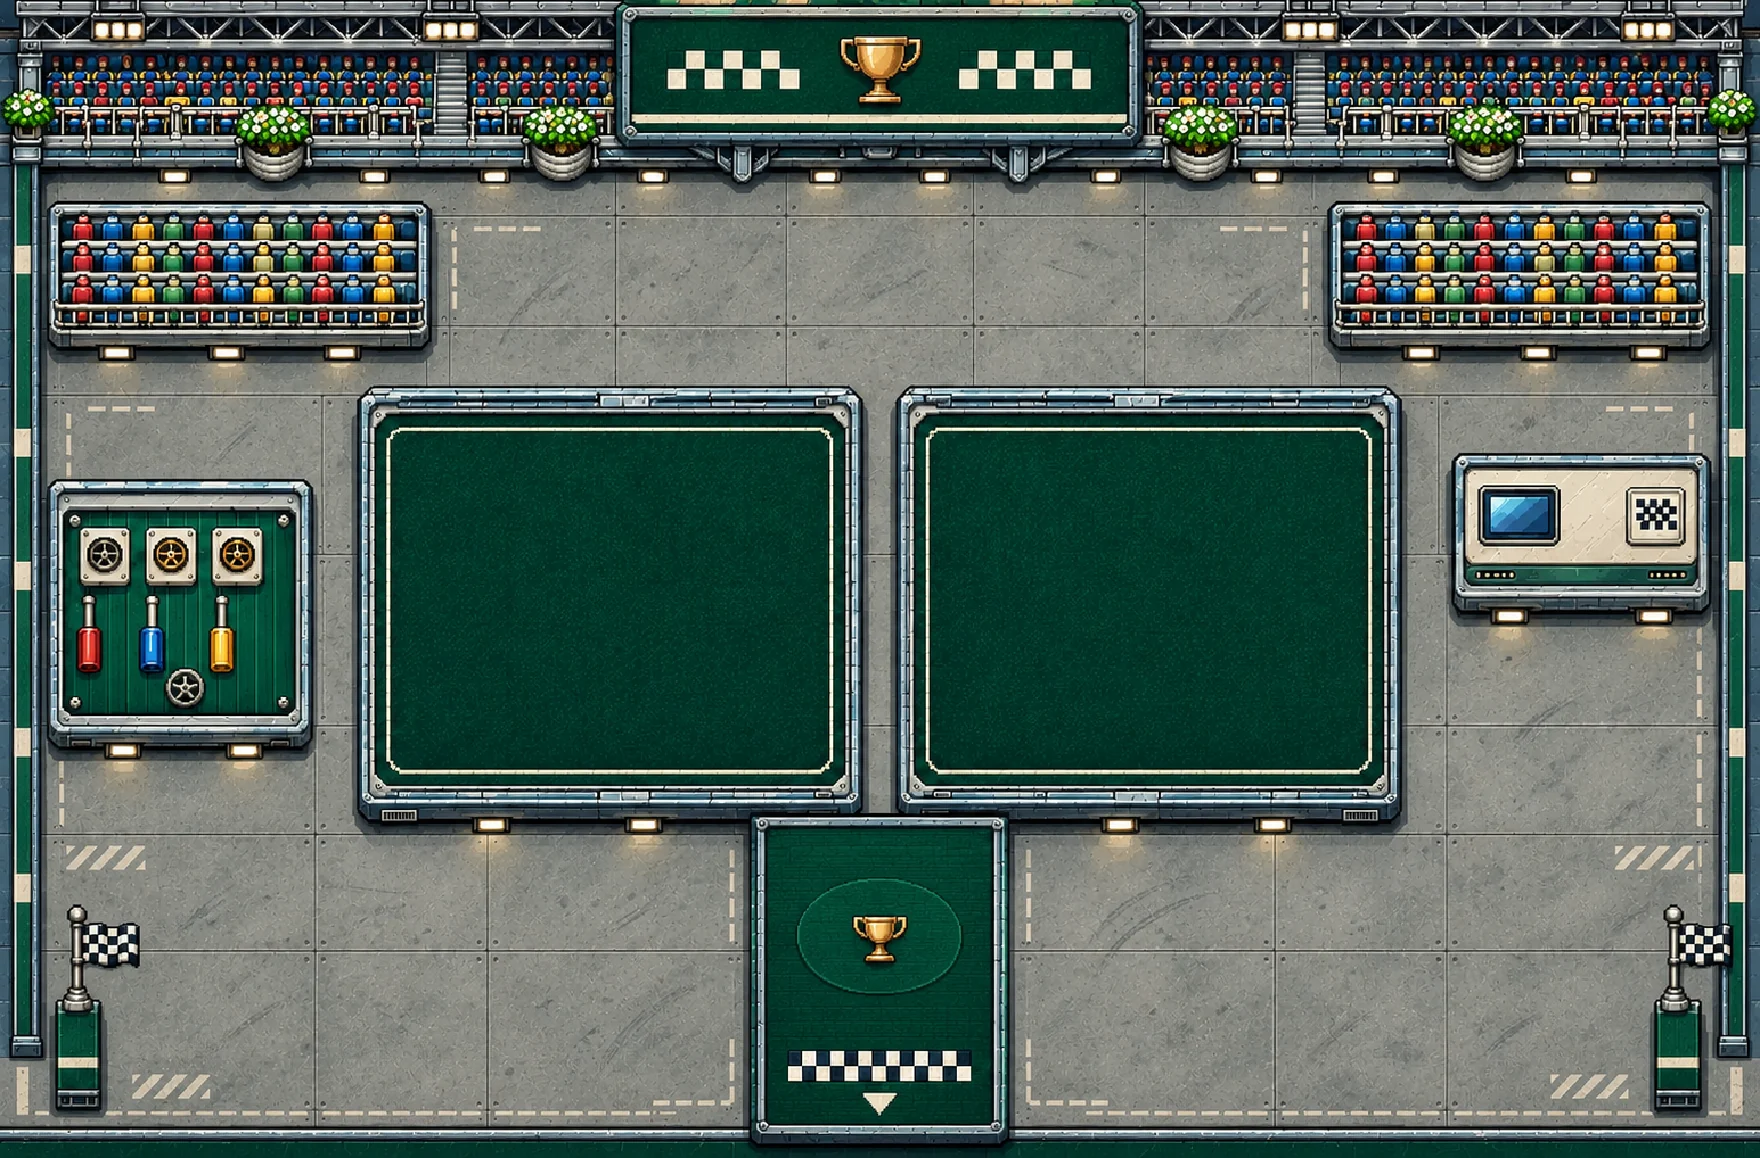
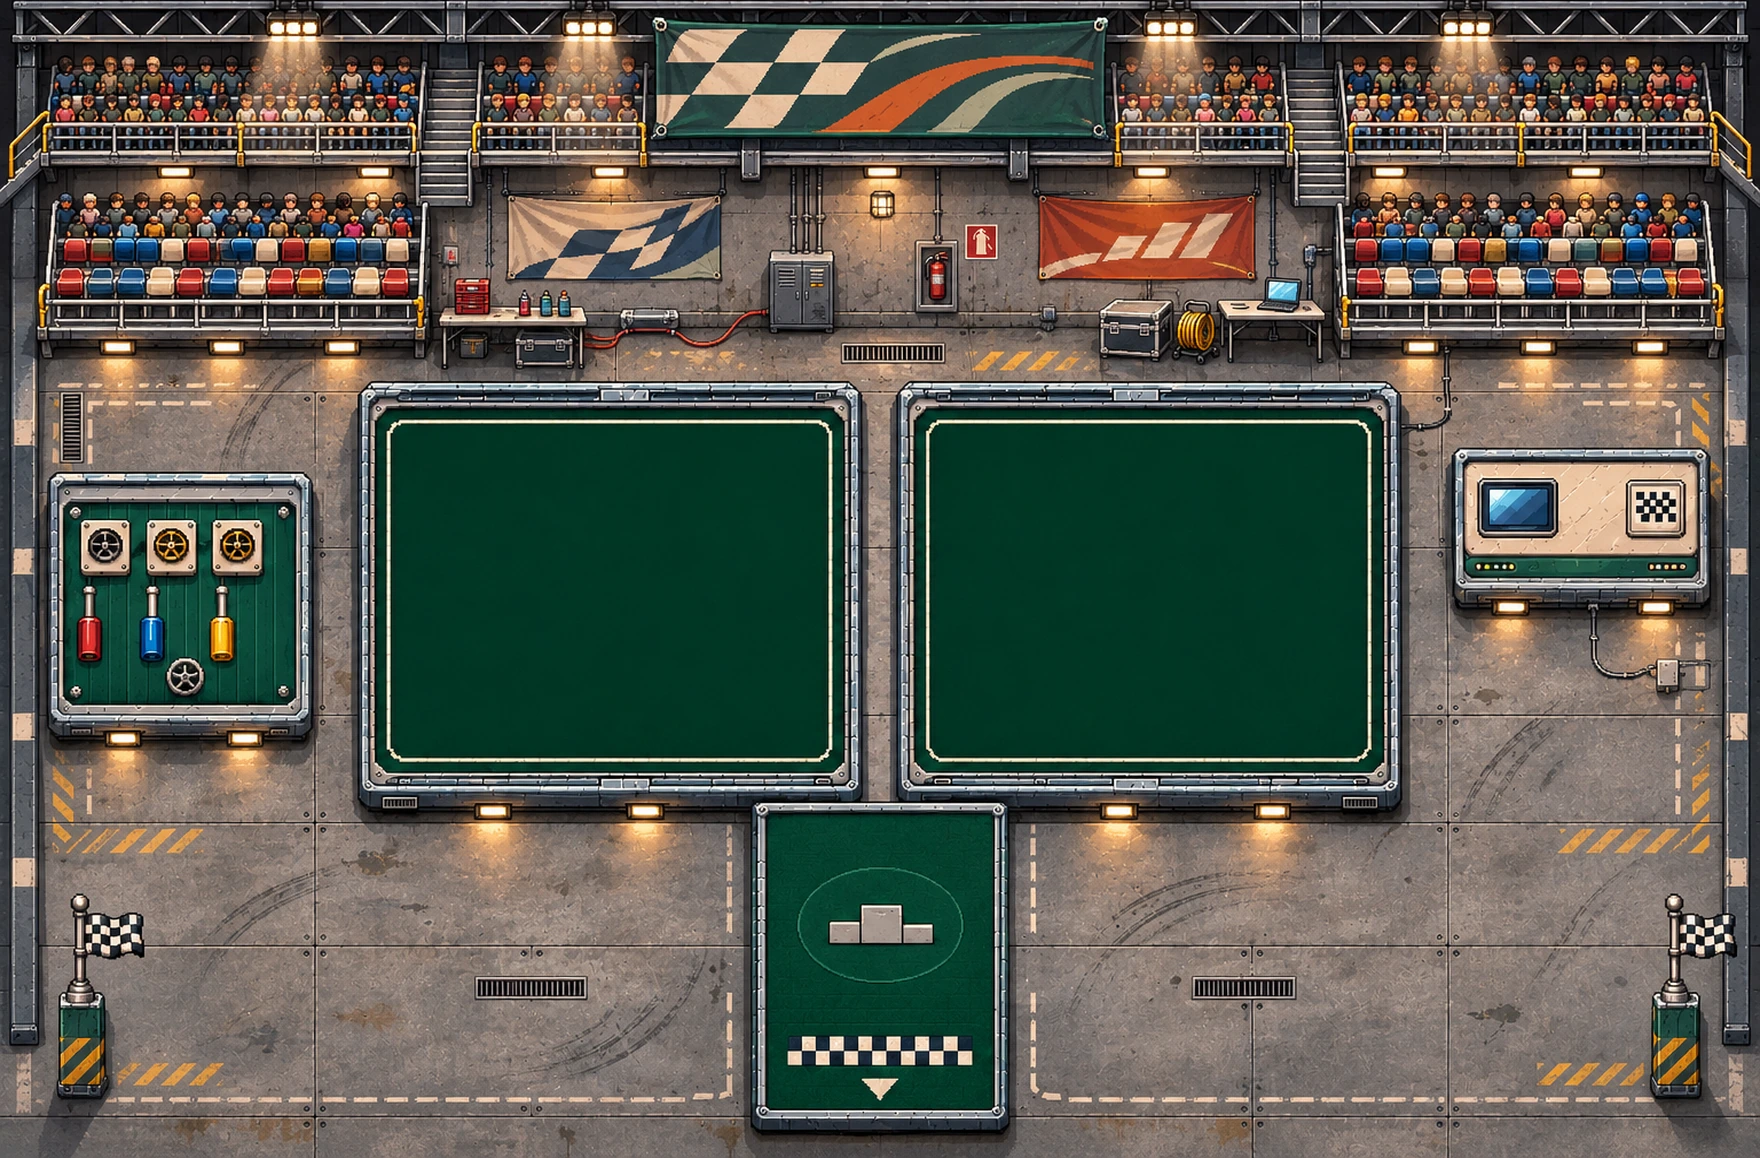
Rework interiors and town art direction

diff --git a/src/game/TownArt.ts b/src/game/TownArt.ts
@@ -19,11 +19,14 @@ function ground(c:CanvasRenderingContext2D){
   for(let x=shore+25;x<townSize.width;x+=37){const n=noise(x,y);r(x+n%11,y+4,14+n%9,1,'#8ec3be');r(x+7,y+6,8,1,'#2e677f');if(n%9===0){r(shore-13,y-3,2,10,'#486c53');r(shore-10,y-5,1,11,'#9aa372');}}
  }
  const road=(x:number,y:number,w:number,h:number)=>{
-  r(x+3,y+4,w,h,'#3d55574d');r(x,y,w,h,'#495860');r(x+7,y+7,w-14,h-14,'#667377');
+  r(x+4,y+5,w,h,'#34474a55');r(x,y,w,h,'#414f55');r(x+3,y+3,w-6,h-6,'#59666a');r(x+7,y+7,w-14,h-14,'#626f72');
   for(let yy=y+10;yy<y+h-7;yy+=11)for(let xx=x+10;xx<x+w-7;xx+=13){const n=noise(xx,yy);if(n%3===0)r(xx,yy,2,1,n%2?'#85918a':'#51646a');}
-  // Broken edge highlights and small aggregate clusters keep long asphalt strips organic.
-  for(let yy=y+18;yy<y+h-10;yy+=31)for(let xx=x+18;xx<x+w-10;xx+=37){const n=noise(xx,yy,91);if(n%4)continue;const px=xx+n%9,py=yy+(n>>>5)%8;r(px,py,3,1,'#a5aaa01f');r(px+2,py+2,2,1,'#344d5524');}
-  r(x,y,w,2,'#e0d3a5');r(x,y,2,h,'#c8c39c');r(x+w-4,y,4,h,'#8e9988');r(x,y+h-4,w,4,'#84928a');
+  // Irregular aggregate, tire polishing and repairs replace the flat asphalt fill.
+  for(let yy=y+8;yy<y+h-8;yy+=7)for(let xx=x+8;xx<x+w-8;xx+=9){const n=noise(xx,yy,91);if(n%4===0)continue;const px=xx+n%6,py=yy+(n>>>5)%5;r(px,py,1+n%3,1,n%3===0?'#abb0a336':n%2?'#34494e36':'#d4c9a21b');if(n%11===0)r(px+1,py+1,2,1,'#253b4230');}
+  for(let yy=y+20;yy<y+h-16;yy+=67)for(let xx=x+26;xx<x+w-24;xx+=83){const n=noise(xx,yy,193);if(n%5)continue;const px=xx+n%13,py=yy+(n>>>6)%14;r(px,py,9+n%14,1,'#283f4626');r(px+2,py+1,5+n%9,1,'#aab0a11b');}
+  // Raised curbs, chipped paint and paired gutter lines give every road a profile.
+  r(x,y,w,3,'#c8c2a0');r(x,y+3,w,1,'#e0d3a5');r(x,y+4,2,h-8,'#c8c39c');r(x+w-3,y+4,3,h-8,'#8e9988');r(x,y+h-4,w,1,'#a7a995');r(x,y+h-3,w,3,'#77877f');
+  for(let yy=y+12;yy<y+h-12;yy+=22){r(x+5,yy,2,8,'#30454b');r(x+6,yy+1,1,6,'#abb1a3');r(x+w-8,yy,2,8,'#30454b');r(x+w-7,yy+1,1,6,'#abb1a3');}
  };
  for(const x of townRoads.vertical){road(x-70,72,140,2250);for(let y=88;y<2320;y+=30){r(x-2,y,4,13,'#c9bd8d');r(x-1,y,1,11,'#e4d5a5');for(const xx of [x-70,x+63]){r(xx,y,7,1,'#6e8279');r(xx,y+1,7,1,'#d8cfaa');}}
   for(let y=185;y<2290;y+=210){r(x+53,y,9,17,'#3d535a');for(let i=0;i<4;i++)r(x+54,y+2+i*4,7,1,'#85958e');}
@@ -34,9 +37,10 @@ function ground(c:CanvasRenderingContext2D){
   const cx=v.x+v.w/2,cy=v.entrance==='south'?v.y+v.h+30:v.y-30,roadY=townRoads.horizontal.reduce((a,b)=>Math.abs(b-cy)<Math.abs(a-cy)?b:a);
   const pad=v.kind==='outdoor'?{x:v.x-8,y:v.y-8,w:v.w+16,h:v.h+28}:{x:v.x-24,y:v.y-65,w:v.w+48,h:v.h+118};
   r(pad.x+3,pad.y+4,pad.w,pad.h,'#506d4e55');r(pad.x,pad.y,pad.w,pad.h,'#b0af8c');
-  for(let yy=pad.y;yy<pad.y+pad.h;yy+=12)for(let xx=pad.x;xx<pad.x+pad.w;xx+=22){const n=noise(xx,yy);r(xx+1,yy+1,Math.min(20,pad.x+pad.w-xx-1),10,n%3?'#bdb99a':'#aaa98a');r(xx+1,yy+1,Math.min(20,pad.x+pad.w-xx-1),1,'#d3cdac');}
+  // Broad offset stone slabs, varied aggregate and worn corners feel like a real curb walk.
+  for(let yy=pad.y;yy<pad.y+pad.h;yy+=18){const row=Math.floor((yy-pad.y)/18);for(let xx=pad.x-(row%2)*15;xx<pad.x+pad.w;xx+=36){const n=noise(xx,yy,43),left=Math.max(pad.x+1,xx+1),width=Math.min(34,pad.x+pad.w-left-1);if(width<4)continue;const color=['#b7b29a','#acae98','#c1baa0','#a9ad9a'][n%4];r(left,yy+1,width,16,color);r(left,yy+1,width,1,'#dad3b4');r(left,yy+15,width,1,'#858f7f');r(left+1,yy+2,width-2,1,'#c9c3a9');if(n%3===0){r(left+4+n%11,yy+5+n%4,3+n%6,1,'#e1d8b327');r(left+14,yy+10,2,1,'#66796b38');}if(n%7===0){r(left+width-5,yy+7,2,1,'#697b6d70');r(left+width-4,yy+8,1,2,'#697b6d70');}}}
   const top=Math.min(cy,roadY),bottom=Math.max(cy,roadY);r(cx-30,top,60,bottom-top,'#788572');r(cx-28,top,56,bottom-top,'#aea98a');
-  for(let yy=top;yy<bottom;yy+=14){for(let col=0;col<2;col++){const xx=cx-27+col*27,n=noise(xx,yy);r(xx+1,yy+1,25,12,n%3?'#beb89a':'#b4ae90');r(xx+1,yy+1,25,1,'#dbd0ac');r(xx+1,yy+12,25,1,'#929a80');if(n%4===0)r(xx+5,yy+4,4,1,'#d6c9a527');}r(cx-29,yy+3,1,4,'#7d9663');r(cx+28,yy+8,1,3,'#6f8a5b');}
+  for(let yy=top;yy<bottom;yy+=18){for(let col=0;col<2;col++){const xx=cx-27+col*27,n=noise(xx,yy,61),tone=['#bbb69d','#b0ae96','#c5bda2'][n%3];r(xx+1,yy+1,25,16,tone);r(xx+1,yy+1,25,1,'#ded3b0');r(xx+1,yy+15,25,1,'#89917e');if(n%3===0){r(xx+5+n%8,yy+5,5,1,'#e0d5b538');r(xx+17,yy+10,3,1,'#717d6f3d');}if(n%9===0){r(xx+20,yy+8,2,1,'#657964');r(xx+22,yy+7,1,2,'#657964');}}r(cx-29,yy+4,1,4,'#7d9663');r(cx+28,yy+9,1,3,'#6f8a5b');}
  }
  // House fronts have their own stone thresholds and planted yards.
  for(const b of townBlocks){
@@ -53,14 +57,14 @@ function ground(c:CanvasRenderingContext2D){
  }
 }
 function house(scene:Phaser.Scene,block:typeof townBlocks[number],index:number){
- const {x,y,w,h}=block,key=`town-house-16-${index}-${w}-${h}`;
+ const {x,y,w,h}=block,key=`town-house-17-${index}-${w}-${h}`;
  if(!scene.textures.exists(key)){const t=scene.textures.createCanvas(key,(w+40)*2,(h+64)*2)!;t.context.scale(2,2);const p=new SceneryPen(t.context),xx=15,yy=40;
   p.shadow(xx,yy,w,h);p.rect(xx,yy,w,h,'#37474b');p.gradient(xx+3,yy+2,w-6,h-5,['#c7b999','#a9bab0','#bfada4'][index%3],['#9e9d87','#839e96','#a29791'][index%3]);p.material(xx+3,yy+4,w-6,h-10,'stone',index);
   for(let row=0;row<3;row++)for(let col=xx+10;col<xx+w-25;col+=32){const wy=yy+12+row*28;if(wy+22>yy+h-8)continue;p.rect(col-2,wy-2,27,25,'#6d7d77');p.rect(col,wy,23,21,'#334b58');p.gradient(col+2,wy+2,19,15,'#b4d1c5','#628b96');p.poly([[col+3,wy+2],[col+10,wy+2],[col+5,wy+16],[col+3,wy+16]],'#e7ecd066');p.rect(col+10,wy+2,1,17,'#d9d4b6');p.rect(col+2,wy+10,19,1,'#899f97');p.rect(col-2,wy+21,27,3,'#d1c8a5');p.rect(col-1,wy+24,27,2,'#6d7f76');}
-  p.poly([[xx-5,yy-25],[xx+w/2,yy-35],[xx+w+5,yy-25],[xx+w+5,yy+2],[xx-5,yy+2]],'#35464c');p.poly([[xx-3,yy-25],[xx+w/2,yy-32],[xx+w+3,yy-25],[xx+w+3,yy-2],[xx-3,yy-2]],['#667c7b','#6f8475','#927e70'][index%3]);
+  p.poly([[xx-5,yy-25],[xx+w/2,yy-35],[xx+w+5,yy-25],[xx+w+5,yy+2],[xx-5,yy+2]],'#35464c');p.poly([[xx-3,yy-25],[xx+w/2,yy-32],[xx+w+3,yy-25],[xx+w+3,yy-2],[xx-3,yy-2]],['#667c7b','#6f8475','#927e70'][index%3]);p.material(xx-2,yy-24,w+4,24,'wood',index+71);
   for(let ty=yy-25,row=0;ty<yy-3;ty+=5,row++)for(let tx=xx-1-row%2*6;tx<xx+w;tx+=12){p.rect(tx,ty,10,1,'#adbaa4');p.rect(tx+1,ty+1,8,2,'#82968a');p.rect(tx+9,ty+1,1,3,'#435c60');p.rect(tx,ty+4,10,1,'#42585a');}
   p.rect(xx+w/2-2,yy-33,4,3,'#b9bda5');p.rect(xx-6,yy+1,w+12,3,'#43565a');p.rect(xx-5,yy+1,w+10,1,'#d2c7a1');p.rect(xx+w-5,yy+3,2,h-6,'#617e7c');p.rect(xx+w-4,yy+4,1,h-9,'#b4baa4');
-  p.rect(xx+w/2-10,yy+h-25,20,25,'#465958');p.gradient(xx+w/2-7,yy+h-23,14,20,'#8eaaa0','#5b7d82');p.rect(xx+w/2+4,yy+h-13,2,2,'#ddc69c');p.rect(xx+w/2-12,yy+h-2,24,3,'#c5bda0');p.plant(xx+10,yy+h-2,.6);
+  p.rect(xx+w/2-10,yy+h-25,20,25,'#465958');p.gradient(xx+w/2-7,yy+h-23,14,20,'#8eaaa0','#5b7d82');p.poly([[xx+w/2-6,yy+h-22],[xx+w/2-2,yy+h-22],[xx+w/2-5,yy+h-8],[xx+w/2-6,yy+h-8]],'#edf1dc55');p.rect(xx+w/2+4,yy+h-13,2,2,'#ddc69c');p.rect(xx+w/2-12,yy+h-2,24,3,'#c5bda0');p.material(xx+w/2-8,yy+h-22,16,17,'wood',index+101);p.plant(xx+10,yy+h-2,.6);
   // Residential details: awnings, letterboxes, laundry, flower boxes and bicycles.
   const door=xx+w/2;
   if(index%3===0){p.poly([[door-16,yy+h-30],[door+15,yy+h-30],[door+20,yy+h-22],[door-21,yy+h-22]],'#455f61');for(let i=0;i<5;i++)p.rect(door-18+i*7,yy+h-26,4,4,i%2?'#cbbd91':'#8d9990');p.rect(door-21,yy+h-22,41,2,'#c2b597');}
@@ -75,7 +79,7 @@ function house(scene:Phaser.Scene,block:typeof townBlocks[number],index:number){
 }
 export function drawTown(scene:Phaser.Scene,progress:WorldProgress){
  // 大きな街でも個々の地面テクスチャは2048px以下の幅に保つ。
- for(let x=0;x<townSize.width;x+=2048){const key=`midorikawa-ground-16-${x}`;if(!scene.textures.exists(key)){const texture=scene.textures.createCanvas(key,Math.min(2048,townSize.width-x),townSize.height)!;texture.context.translate(-x,0);ground(texture.context);texture.refresh();texture.setFilter(Phaser.Textures.FilterMode.NEAREST);}scene.add.image(x,0,key).setOrigin(0).setDepth(-100);}
+ for(let x=0;x<townSize.width;x+=2048){const key=`midorikawa-ground-17-${x}`;if(!scene.textures.exists(key)){const texture=scene.textures.createCanvas(key,Math.min(2048,townSize.width-x),townSize.height)!;texture.context.translate(-x,0);ground(texture.context);texture.refresh();texture.setFilter(Phaser.Textures.FilterMode.NEAREST);}scene.add.image(x,0,key).setOrigin(0).setDepth(-100);}
 
  townBlocks.forEach((block,index)=>house(scene,block,index));
  for(const venue of townVenues)if(venue.kind==='outdoor')drawOutdoorCourse(scene,venue,isVenueOpen(venue,progress));else drawVenueFacade(scene,venue,isVenueOpen(venue,progress));

diff --git a/src/game/VenueFacadeArt.ts b/src/game/VenueFacadeArt.ts
@@ -35,13 +35,20 @@ export function paintVenueFacade(p:SceneryPen,v:TownVenue,open:boolean){
   for(const side of [-1,1]){const fx=x+w/2+side*(w*.36);p.rect(fx,y-45,2,60,'#b9c9c4');p.poly([[fx+2,y-44],[fx+27,y-39],[fx+2,y-20]],accent);p.checker(fx+4,y-42,16,8,4);}
  }else{
   const t=shopThemes[(v.shopId??'komorebi') as ShopId];
-  // 以前の二階建ての町の模型店を基本に、配色・軒・小物だけを変える。
+  // Existing building footprints stay fixed; layered siding, masonry, and trim carry
+  // the same material detail as the new interiors into the town-facing elevation.
   p.round(x,y,w,h,3,t.ink);p.gradient(x+3,y+3,w-6,h-7,'#e3d8bc',t.floorDark);
+  p.material(x+5,y+6,w-10,h-14,'stone',v.x+v.y);
+  for(let row=0;row<5;row++){
+   const yy=y+7+row*8,offset=row%2?0:7;
+   p.line([[x+6+offset,yy],[x+w-7,yy]],'#3146512c',.6);
+   for(let xx=x+7+offset;xx<x+w-8;xx+=19)p.line([[xx,yy],[xx,yy+7]],'#f4ead02d',.5);
+  }
   p.poly([[x-8,y-24],[x+w/2,y-34],[x+w+8,y-24],[x+w+8,y+5],[x-8,y+5]],t.ink);
   p.poly([[x-5,y-24],[x+w/2,y-31],[x+w+5,y-24],[x+w+5,y+1],[x-5,y+1]],t.accent);
-  for(let yy=y-23;yy<y;yy+=7){p.line([[x-3,yy],[x+w+3,yy]],'#dae0d066',1);for(let xx=x+3;xx<x+w;xx+=14)p.line([[xx,yy+1],[xx,yy+5]],'#30475855',1);}
+  for(let yy=y-23;yy<y;yy+=7){p.line([[x-3,yy],[x+w+3,yy]],'#dae0d066',1);for(let xx=x+3;xx<x+w;xx+=14){p.line([[xx,yy+1],[xx,yy+5]],'#30475855',1);p.rect(xx+2,yy+2,2,1,'#eff0cf25');}}
   p.rect(x-8,y+2,w+16,4,t.wood);p.rect(x-7,y+2,w+14,1,t.metal);
-  for(let xx=x+13;xx<x+w-18;xx+=35){p.round(xx,y+14,26,25,1,'#5e6e7b');p.gradient(xx+2,y+16,22,20,'#a5c9c9','#7198a6');p.rect(xx+4,y+17,3,17,'#e5ecce88');p.rect(xx+12,y+16,1,20,'#d8d9bc');p.rect(xx-1,y+38,28,2,t.wood);}
+  for(let xx=x+13;xx<x+w-18;xx+=35){p.shadow(xx,y+14,26,25);p.round(xx,y+14,26,25,1,'#5e6e7b');p.gradient(xx+2,y+16,22,20,'#a5c9c9','#7198a6');p.poly([[xx+3,y+17],[xx+10,y+17],[xx+5,y+31],[xx+3,y+31]],'#f6f3da42');p.rect(xx+4,y+17,3,17,'#e5ecce88');p.rect(xx+12,y+16,1,20,'#d8d9bc');p.rect(xx-1,y+38,28,2,t.wood);p.rect(xx,y+40,27,1,'#354c5266');}
   // 小さな模型の壁章。看板に文字は入れない。
   p.round(x+7,y+46,w-14,25,2,t.wood);p.rect(x+10,y+48,w-20,1,'#fff0cb88');p.round(x+10,y+48,w-20,21,1,t.ink);
   p.wheel(x+w/2-14,y+60,6,t.metal);p.wheel(x+w/2+14,y+60,6,t.metal);p.poly([[x+w/2-18,y+57],[x+w/2-5,y+51],[x+w/2+15,y+53],[x+w/2+21,y+58]],t.accent);
@@ -78,7 +85,7 @@ export function paintVenueFacade(p:SceneryPen,v:TownVenue,open:boolean){
  c.globalAlpha=1;
 }
 export function drawVenueFacade(scene:Phaser.Scene,v:TownVenue,open:boolean){
- const key=`facade-v3-${v.id}-${open}`,width=v.w+80,height=v.h+125;
+ const key=`facade-v4-${v.id}-${open}`,width=v.w+80,height=v.h+125;
  if(!scene.textures.exists(key)){const t=scene.textures.createCanvas(key,width*2,height*2)!;t.context.scale(2,2);paintVenueFacade(new SceneryPen(t.context),v,open);t.refresh();t.setFilter(Phaser.Textures.FilterMode.NEAREST);}
  scene.add.image(v.x-40,v.y-91,key).setOrigin(0).setDisplaySize(width,height).setDepth(v.y+v.h);
 }

diff --git a/src/game/PersonTexture.ts b/src/game/PersonTexture.ts
@@ -8,5 +8,6 @@ export function createPersonTexture(scene:Phaser.Scene,key:string,drawing:readon
   const scale=3,texture=scene.textures.createCanvas(key,personSpriteSize.width*scale,personSpriteSize.height*scale)!;
   texture.context.scale(scale,scale);
   paintPixels(texture.context,drawing);
-  texture.refresh();texture.setFilter(Phaser.Textures.FilterMode.LINEAR);
+  // Keep hard pixel clusters when the 3x character source is drawn at 48x64.
+  texture.refresh();texture.setFilter(Phaser.Textures.FilterMode.NEAREST);
 }

diff --git a/docs/scenery-art.md b/docs/scenery-art.md
@@ -2,19 +2,20 @@
 
 ## 施設原画
 
-通常店舗、専門店、耐久店、公式会場の背景は`src/assets/scenery/<施設ID>.webp`に置く。2026-11-10、全12枚を高精細ピクセルアートへ描き直した。店舗は1920×1280、公式会場は1760×1158で、論理範囲の縦横2倍の原画密度を持つ。WebP品質86で細部と転送量のバランスを取り、施設ごとに約0.5〜0.7MBへ収めた。素材は生成画像を元に、各施設固有の色・掲示・設備を維持している。既存ゲーム作品の画像・ロゴ・キャラクターデザインは使わない。
+通常店舗、専門店、耐久店、公式会場の背景は`src/assets/scenery/<施設ID>.webp`に置く。既存の12施設原画を保ちながら、2026-11-10に主要店舗5店と公式会場1棟を二度目の大幅な描き直し対象にした。新しい原画は店舗1536×1024（論理座標の1.6倍）、会場1760×1158。こもれび・あおぞら・ひなた・ゆうなぎ・atelierの5室を今回の対象とし、わかば・あかつき・耐久店と残る公式会場は前回原画を維持する。木、鋼板、ゴム、ガラス、石床などの材質と照明のコントラストを上げ、元の一様なタイル床を避けた。WebP品質92でも各ファイルは約0.5〜0.7MBに収まり、シーンごとに必要な背景だけ読み込む。既存作品の画像・ロゴ・キャラクターデザインは使わない。
 
 | 施設ID | 維持するテーマ |
 | --- | --- |
-| komorebi | 青緑タイル、青灰色の壁、木とスチール、葉の掲示 |
-| aozora | 空色とパールグレー、青白い家具、小さなレース旗 |
-| hinata | 砂色とクリーム、オリーブ・橙色、壁のタイヤとホース |
-| wakaba | 若草色とクリーム、緑の家具と植物 |
-| yuunagi | 青灰色と薄紫、波・船の小物 |
+| komorebi | 温かい木床、青い塗装壁、ガラス展示棚と実用品の作業机 |
+| aozora | 空色とパールグレー、青白い家具、小さなレース旗、石材床 |
+| hinata | 砂色の石床、木枠、オフロード用タイヤと工具 |
+| wakaba | 森色の壁、ゴム作業帯、ブロックタイヤと屋外レース道具 |
+| yuunagi | 青灰色の港町ガレージ、窓光、ピット設備 |
 | akatsuki | テラコッタ、えんじ色、控えめなトロフィー |
 | atelier | 薄紫と灰色、工具と小さな天体モチーフ |
 | endurance | 耐久レース用の実用的な設備と落ち着いた配色 |
-| stadium-5 / 7 / 9 / 10 | 大会ごとの緑・紺・紫・赤系のアクセントと観客席 |
+| stadium-5 | 塗装スチール、コンクリート床、観客席とピット用品 |
+| stadium-7 / 9 / 10 | 大会ごとの紺・紫・赤系のアクセントと観客席 |
 
 店舗画像は全室`{x:0,y:0,width:960,height:640}`へ、会場画像は`roomView={x:40,y:35,width:880,height:579}`へ配置する。あおぞらは原画と前景切り抜きを同じように左右反転する。`drawPaintedFixture`は背景と同じ画像から同じ座標変換で家具を切り出し、人物との前後関係を保つ。家具の位置、歩行通路、当たり判定、入口、設備のタップ範囲は`shopLayout`と既存データを使い、変更しない。コース面は背景へ描き込まず、`drawShopTrack`が実形状を描画する。
 
@@ -24,7 +25,7 @@
 
 ## 町
 
-街の地面・道路・住宅・瓦・植栽・街灯・ベンチは`TownArt.ts`、素材模様と樹冠は`PixelArtMaterials.ts`、建物外観は`VenueFacadeArt.ts`、観客・住人は`TownCrowdArt.ts`で作る。地面は2048ワールド単位以下の幅に分割して一度だけ描画し、装飾はキャッシュした原画を使う。街マップは既存の座標・道路・建物・外コース・NPC配置をそのまま維持し、室内原画と同じ青緑・木色・段階影・硬いピクセル輪郭へ寄せる。
+街の地面・道路・住宅・瓦・植栽・街灯・ベンチは`TownArt.ts`、素材模様と樹冠は`PixelArtMaterials.ts`、建物外観は`VenueFacadeArt.ts`、観客・住人は`TownCrowdArt.ts`で作る。地面は2048ワールド単位以下の幅に分割して一度だけ描画し、装飾はキャッシュした原画を使う。道路に粒状の舗装・タイヤ跡・縁石・側溝、建物前の歩道に段差と欠けのある石材を追加し、外壁にも目地と窓枠の反射を描き込む。街マップの座標・道路・建物・外コース・NPC配置は変えず、同じ左上光源と細かな素材描写へ寄せる。
 
 ## 原画更新の手順
 

diff --git a/docs/shop-interior-art.md b/docs/shop-interior-art.md
@@ -2,9 +2,9 @@
 
 ## 現在の制作方式
 
-実際の店内表示は`src/assets/scenery/<施設ID>.webp`を`PaintedScenery`から読み込む。`src/assets/shop/interior-v1.webp`はこもれび模型店の高精細ピクセルアート原画を確認するための参照コピーで、ゲーム内では施設別の`scenery/`画像が使われる。2026-11-10に全店舗・専門店・耐久店の原画を更新し、各施設の色・壁掲示・設備を残して同じスタイルに揃えた。
+実際の店内表示は`src/assets/scenery/<施設ID>.webp`を`PaintedScenery`から読み込む。`src/assets/shop/interior-v1.webp`はこもれび模型店の原画を確認する参照コピーで、ゲーム内では施設別画像が使われる。2026-11-10の二次更新ではこもれび・あおぞら・ひなた・ゆうなぎ・星霧工房を別々の素材・照明設計で描き直した。わかば・あかつき・耐久店の原画は従来版を保つ。専門店の駆動・速度・悪路店はそれぞれひなた・あおぞら・わかばの背景を共有する。
 
-- 論理室内は960×640。背景は1920×1280、WebPで描画する。
+- 論理室内は960×640。背景原画は従来の1920×1280または新しい1536×1024。すべてWebPで、画像の個性を保ちながらシーンごとに必要な背景だけを読み込む。
 - 入口は南側の`shopExit`、開始位置は`room.spawn`。これらは変更しない。
 - 家具の論理位置は`shopLayout`が決める。通常店は入口→受付・商品棚→本棚・整備台→コースの順に見通せる。コースは実際の試走設備として扱い、`drawShopTrack`の形状と走行ロジックを使う。
 - 描画は背景と同じ画像から家具を切り出す。`drawPaintedFixture`が家具の下端で深度を決め、歩行人物が家具の後ろへ隠れる。画像全体を家具の当たり判定に使うことはせず、既存のfixture矩形と移動判定を維持する。

diff --git a/docs/pixel-art-direction.md b/docs/pixel-art-direction.md
@@ -7,7 +7,7 @@
 - 俯瞰型2D RPGの視点を使い、壁・床・家具・人物の見下ろし角度を揃える。
 - 店内の論理座標は960×640、会場は880×579の`roomView`、町は`townSize`の座標を使う。ゲーム座標は連続値で、16ワールド単位を見た目の整列基準とする。既存の自由配置マップをタイル移動へ変えない。
 - 人物の原画枠は60×80、表示は48×64ワールド単位。足元の基準点、歩行フレーム、会話位置、衝突判定は変えない。
-- 店内背景は1920×1280、公式会場は1760×1158（各論理範囲の2倍）。町の小物とタイルも個別に2倍以上の原画を使い、最終表示に必要な細部を描き込む。アップスケールだけを品質改善とみなさない。
+- 店内背景は1536×1024または1920×1280、公式会場は1760×1158。人物の原画密度と大きく乖離させず、高DPI表示で細部を維持する。町の小物とタイルも個別に描き、アップスケールだけを品質改善とみなさない。
 - 光源は左上を基本に、素材ごとの明暗段階、接地影、細い反射光をピクセルの塊で描く。木、塗装金属、透明ケース、プラスチック、布、土、舗装の質感を描き分ける。
 - 施設は共通の海青・青緑・木色を基調に、店ごとのアクセント色で見分ける。競技会場は大会ごとの色を残し、観客席・足場・照明・コース床を実用的な設備として描く。
 
